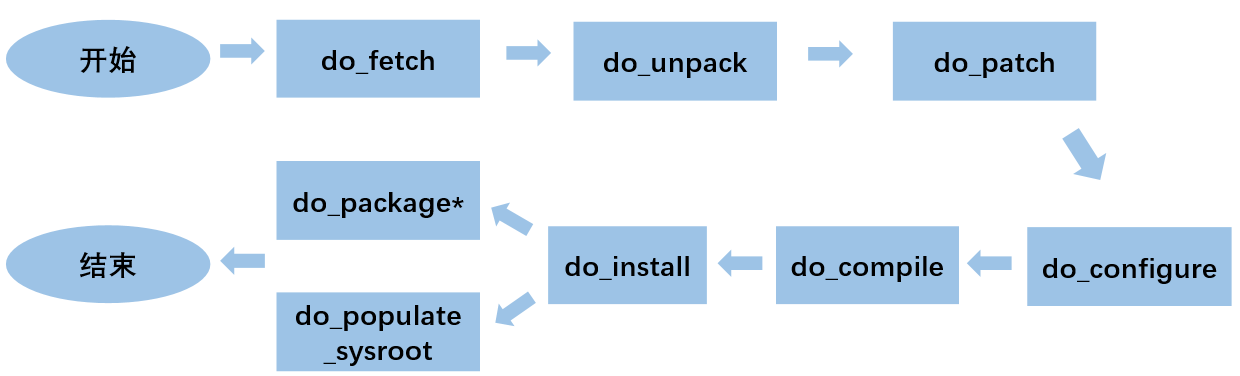
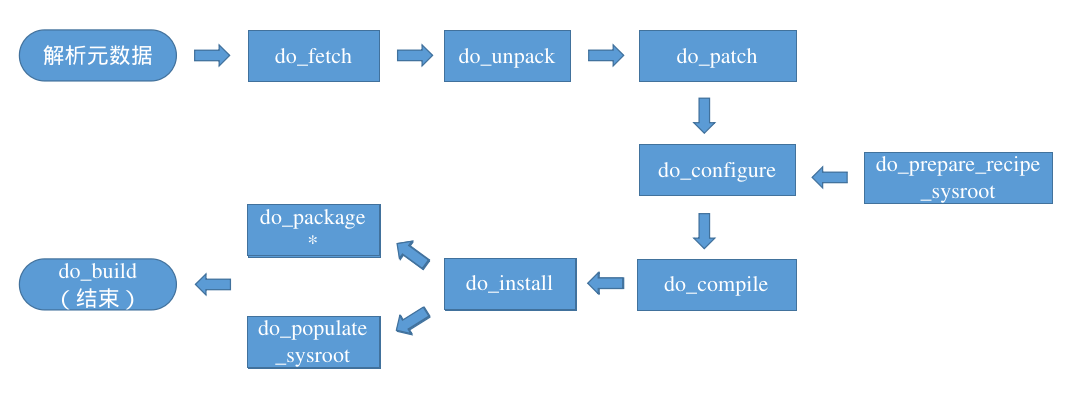
docs: add a brief doc to introduce Yocto (three)
* introduce Variables and Tasks of Yocto

diff --git a/docs/source/yocto/getting_started3.rst b/docs/source/yocto/getting_started3.rst
@@ -1,0 +1,299 @@
+.. _yocto_getting_started3:
+
+====================
+Yocto 入门文档三
+====================
+
+任务是BitBake的执行单元，变量可能会对任务产生影响。本篇章介绍常用的变量与任务。
+
+
+基本变量
+================
+
+此章节仅介绍一些最基本的变量，开发者如果有不理解的变量，可以在 :file:`poky/documentation/ref-manual/variables.rst` 文档查找介绍。此外，这些变量通常在bitbake.conf文件存在定义。本节提供了在OpenEmbedded（Yocto）构建系统中定义的变量的参考。
+
+- **MACHINE：** 指定使用的硬件配置文件，通常在local.conf文件定义；
+- **DISTRO：** 指定使用的发行版配置文件，通常在local.conf文件定义；
+- **PN：** 软件包名，一般是根据文件名自动生成；除了一些交叉编译的包，如gcc-cross会在bb中重新定义；
+- **PV：** 软件包版本；
+- **PR：** 食谱的修订，默认为r0；当包管理器在已构建的镜像上动态安装包时，PR很重要，当前openEuler未启用；
+- **BPN：** 软件包名，去除指定的前后缀(如-native、-cross等)；
+- **BP：** ${BPN}-${PV};
+- **SRC_URI：** 源码路径，可以为上游或者本地文件路径，上游源码需要使用校验值；
+- **LICENSE：** 配方的源许可证列表，必须设置；如果设置为"CLOSED"则关闭；
+- **LIC_FILES_CHKSUM：** 配方源代码中许可证文本的校验和，与LICENSE变量配合使用；
+- **PACKAGE_ARCH：** 生成包的体系结构；
+- **TARGET_VENDOR：** 指定目标供应商的名称，openEuler设置为"-openeuler"；
+- **TARGET_OS：** 指定目标的操作系统；
+- **MULTIMACH_TARGET_SYS：** 生成包的目标系统类型的唯一标识，默认为${PACKAGE_ARCH}${TARGET_VENDOR}-${TARGET_OS}；
+- **WORKDIR：** 构建配方的工作目录的路径名，指向${TMPDIR}/work/${MULTIMACH_TARGET_SYS}/${PN}/${EXTENDPE}${PV}-${PR}，EXTENDPE变量通常不被设置；
+- **S：** 构建过程中源代码位置，默认为${WORKDIR}/${BPN}-${PV}；
+- **B：** 构建过程中生成对象所在的目录，默认与S相同；一些类会将B设置为${WORKDIR}/build；
+- **D：** 相当于 ``make install`` 后的目标目录，指向${WORKDIR}/image；
+- **PACKAGES：** 表示配方创建的包列表；
+- **FILES_xxx：** 放置在包中的文件和目录列表；
+- **PKGD：** 要打包的文件的目录，指向${WORKDIR}/package；
+- **PKGDEST：**  将文件拆分为单独的包后，指向要打包的文件的父目录，该目录是PACKAGES中指定的每个包的目录，指向${WORKDIR}/packages-split；
+- **DEPENDS：** 列出配方的构建时依赖关系，配方在构建时需要其它配方的内容（例如头文件和共享库）；
+- **RDEPENDS：** 列出程序包的运行时依赖项，这些依赖项是必须安装的其他程序包，以便程序包正常运行；
+- **RECIPE_SYSROOT：** 指向${WORKDIR}/recipe-sysroot；
+- **RECIPE_SYSROOT_NATIVE：** 指向${WORKDIR}/recipe-sysroot-native；
+- **SYSROOT_DESTDIR：** 指向${WORKDIR}/sysroot-destdir；
+- **SYSROOT_DIRS：** 暂存到${SYSROOT_DESTDIR}的目录；
+- **STAGING_DIR_HOST：** 组件运行所在的系统上的sysroot路径，默认为${RECIPE_SYSROOT}。
+- **STAGING_DIR_NATIVE：** 构建主机上运行的组件使用的sysroot的路径，默认为${RECIPE_SYSROOT_NATIVE}；
+- **STAGING_DIR_TARGET：** 当构建在系统上执行的组件并为另一台机器生成代码（例如cross-canadian配方）时使用的sysroot路径；
+- **STAGING_KERNEL_DIR：** 包含构建树外模块所需的内核头文件的目录（内核源码目录）；
+- **STAGING_KERNEL_BUILDDIR：** 指向包含内核构建工件的目录。需要访问内核构建工件的配方构建软件可以在内核构建后在STAGING_KERNEL_BUILDDIR变量指定的目录中查找这些工件；
+- **PACKAGE_CLASSES：** 指定构建系统在打包数据时使用的包管理器（例如RPM、DEB或IPK），在local.conf文件设置；
+- **IMAGE_ROOTFS：** 指定根文件系统在构建过程中的位置（ ``do_rootfs`` 任务期间）。此变量不可配置，不要更改它；
+- **IMAGE_FEATURES：** 指定要包含在镜像中的主要功能列表，这些功能大多数都映射到其他安装包；
+- **EXTRA_IMAGE_FEATURES：** IMAGE_FEATURES的一部分；
+- **IMAGE_INSTALL：** 指定要安装到镜像中的程序包；
+- **PACKAGE_EXCLUDE：** ：指定不应安装到image中的包；
+- **PACKAGE_INSTALL：** 要安装到镜像中的程序包的列表，不要更改它，通常使用IMAGE_INSTALL变量间接进行修改；
+- **DEPLOY_DIR：** 指向构建系统用于放置镜像、包、SDK和其他输出文件的常规区域，这些文件已准备好在构建系统之外使用。默认情况下，此目录位于指向${TMPDIR}/deploy。
+- **DEPLOY_DIR_IMAGE：** 指向构建系统用来放置准备部署到目标计算机上的镜像和其他相关输出文件的区域。该目录是特定于机器的默认情况下，此目录指向${DEPLOY_DIR}/images/${MACHINE}/；
+- **DEPLOYDIR：** 当继承deploy类时，DEPLOYDIR指向已部署文件的临时工作区，默认指向${WORKDIR}/deploy-${PN}，此目录内容会被拷贝到${DEPLOY_DIR_IMAGE}；
+- **CC：** 用于运行C编译器的最小命令和参数；
+- **CFLAGS：** 指定要传递给C编译器的标志；
+- **CXXFLAGS：** 指定要传递给C++编译器的标志；
+- **CPPFLAGS：** 指定要传递给C预处理器（即同时传递给C编译器和C++编译器）的标志；
+- **LDFLAGS：** 指定要传递给链接器的标志；
+- **OVERRIDES：** 以冒号分隔的当前应用的覆盖列表。覆盖是一种BitBake机制，允许在解析结束时选择性地覆盖变量；
+- **COMPATIBLE_MACHINE：** 一种正则表达式，解析为一个或多个与配方兼容的目标机器。可以使用该变量来停止为配方不兼容的机器构建配方，停止这些构建对于内核特别有用。该变量还有助于提高解析速度，因为构建系统会跳过与当前机器不兼容的解析配方。
+
+.. note:: 
+
+    export可以将变量导出为环境变量，从而在构建时对正在构建的软件可见。举例： ``export CFLAGS`` 。
+
+
+基本任务
+================
+
+配方（.bb文件）使用任务来完成软件的配置、编译和打包等。本节提供了在OpenEmbedded（Yocto）构建系统中定义的任务的参考。
+
+Yocto支持的主要任务如下：
+
+.. image:: ../../image/yocto/yocto_tasks.png
+
+每个包实际的任务执行顺序可以在工作目录查看，具体是 :file:`${WORKDIR}/temp/log.task_order` 文件。
+
+
+``do_build``
+-------------------------
+
+配方的默认任务，依赖于构建一个配方的所有其他正常构建任务。因为Yocto默认在 :file:`meta/classes/base.bbclass` 中设置了 ``do_build[noexec] = "1"`` ，因此此任务并不会真的执行，只是一个虚拟任务，用于串连起各个模块的任务流。构建时，temp目录下不会存在其执行执行脚本及执行日志文件。
+
+
+``do_fetch/do_unpack``
+------------------------------
+
+配方必须做的第一件事是指定如何获取源文件，获取源码通过SRC_URI变量进行控制。
+
+``do_fetch`` 任务获取源文件， ``do_unpack`` 任务将源文件解压到工作目录（${WORKDIR}）下。默认情况下，一切都在工作目录中完成，该目录具有已定义的结构。在下图中，存在两个示例层次结构：一个基于包架构（即PACKAGE_ARCH）和一个基于机器（即MACHINE）。底层结构是相同的，区别在于OpenEmbedded构建系统使用什么作为构建目标（例如通用架构、构建主机、SDK或特定机器）。
+
+.. image:: ../../image/yocto/tasks_do_fetch.png
+
+``do_fetch`` 任务使用SRC_URI变量定位源码文件；基于SRC_URI变量值中每个条目的前缀来确定使用哪个提取器来获取源文件， ``file://`` 开头为本地文件， ``http://、git://`` 等为上游获取的源文件；
+
+OpenEmbedded构建系统使用FILESPATH变量来扫描SRC_URI中本地文件的目录位置，如果要增加新的路径不能直接修改FILESPATH变量，而是通过修改FILESEXTRAPATHS变量在FILESPATH之前加入路径；
+
+.. note:: 
+
+    如果使用Bitbake处理配方成功解压源文件，通常需要确保${S}目录与源的结构匹配。如果从上游源tarball获取源文件，并且tarball的内部结构与名为${BPN}-${PV}的顶级子目录的通用约定相匹配，那么不需要设置S；但是，如果SRC_URI指定不使用此约定的tarball中获取源代码，或者从像Git或Subversion这样的SCM中获取源代码，则配方需要重新定义S。
+
+详见 :file:`meta/classes/base.bbclass` 。
+
+
+``do_patch``
+----------------------
+
+``do_patch`` 任务在获取、解压源码后打入补丁到源码目录（${S}），根据SRC_URI变量中补丁文件写入的顺序打入补丁。
+
+- SRC_URI中提到的任何名称以 ``.patch`` 或 ``.diff`` 结尾的文件或这些后缀的压缩版本（例如 ``diff.gz`` 被视为补丁）;
+- 增加 ``;apply=yes`` 的任何文件也会当做补丁。
+
+使用方法举例： ::
+
+    SRC_URI += " \
+        file://file1.patch \
+        file://file;apply=yes \
+        file://file2.patch;apply=no \
+        "
+
+.. note:: 
+
+    打入补丁的位置可设置。
+
+详见 :file:`meta/classes/patch.bbclass` 。
+
+
+``do_prepare_recipe_sysroot``
+-----------------------------------
+
+配方通常需要使用构建主机上其他配方提供的文件。例如，配方构建时需要访问依赖库及关联的头文件，完成这种访问的方式是用文件填充sysroot。每个配方在其工作目录中有两个sysroot，一个用于目标文件 (recipe-sysroot)，另一个用于构建主机的本地文件(recipe-sysroot-native)。
+
+根据DEPENDS指定的依赖关系，将依赖包执行 ``do_populate_sysroot`` 任务放到sysroot的文件安装到当前配方特定的sysroot中（${RECIPE_SYSROOT}与${RECIPE_SYSROOT_NATIVE}）。
+
+详见 :file:`meta/classes/staging.bbclass` 。
+
+
+``do_configure``
+----------------------
+
+通过启用和禁用正在构建软件的任何构建时和配置选项来配置源码，此任务在当前工作目录设置为${B}的情况下运行。如果找到makefile（Makefile、makefile或GNUmakefile）并且CLEANBROKEN未设置为"1"，则此任务的默认行为是运行 ``oe_runmake clean`` ；如果未找到此类文件或CLEANBROKEN变量设置为"1"，则 ``do_configure`` 任务不执行任何操作。
+
+配置选项可以来自配方本身，也可以来自继承的类。此外，软件本身可能会根据为其构建的目标进行自我配置。如果使用的是autotools类，则可以使用EXTRA_OECONF或PACKAGECONFIG_CONFARGS变量添加其他配置选项；对于继承cmake类，可通过使用EXTRA_OECMAKE变量添加配置选项。
+
+详见 :file:`base.bbclass、autotools.bbclass、cmake.bbclass、meson.bbclass` 等，以下 ``do_compile、do_install`` 任务同。
+
+
+``do_compile``
+---------------------
+
+编译源代码，此任务在当前工作目录设置为${B}的情况下运行。如果找到构建文件（Makefile、makefile或GNUmakefile），则此任务的默认行为是运行 ``oe_runmake`` 函数。如果没有找到这样的文件， ``do_compile`` 任务什么也不做。
+
+.. image:: ../../image/yocto/tasks_do_compile.png
+
+
+``do_install``
+-----------------------
+
+复制要打包文件到保留区（${D}），此任务在当前工作目录设置为${B}的情况下运行。 ``do_install`` 任务，以及直接或间接依赖于已安装文件的其他任务（例如 ``do_package、do_package_write_*、do_rootfs``）都在fakeroot下运行。
+
+.. note:: 
+
+    安装文件时，请注意不要将已安装文件的所有者和组ID设置为计划外的值。某些复制文件的方法，尤其是使用递归 ``cp`` 命令时，可以保留原始文件的UID和GID，而这通常不是您想要的。"主机用户污染"QA检查检查的是可能拥有错误所有权的文件。受主机用户污染的QA检查检查可能具有错误所有权的文件。
+
+    安装文件的安全方法包括：
+
+    - ``install`` 程序。此实用程序是首选方法；
+
+    - 带有"--no-preserve=ownership"选项的 ``cp`` 命令；
+
+    - 带有"--no-same-owner"选项的 ``tar`` 命令。示例请参见源目录的 :file:`meta/classes/bin_package.bbclass` 文件。
+
+
+``do_populate_sysroot``
+-----------------------------
+
+此任务用于将 ``do_install`` 任务安装的文件子集（$D目录的文件）复制到（SYSROOT_DESTDIR目录），默认会对里面的文件进行 ``strip`` ，之后将SYSROOT_DESTDIR目录下的文件拷贝到"${COMPONENTS_DIR}/${PACKAGE_ARCH}/${PN}"，可以通过修改SYSROOT_DIRS适配填充SYSROOT_DESTDIR的目录列表。有关如何从其他配方访问这些文件的信息，见STAGING_DIR*变量。默认情况下不会复制其他配方在构建时通常不需要的目录（例如 /etc）。
+
+配方永远不应该直接填充SYSROOT_DESTDIR（即将文件写入SYSROOT_DESTDIR），应该在 ``do_install`` 任务期间安装到标准位置（${D}）。这种限制的原因是几乎所有填充sysroot的文件都在清单中编目，以确保在修改或删除配方时可以删除这些文件。因此，sysroot能够保持不受陈旧文件的影响。
+
+详见 :file:`meta/classes/staging.bbclass` 。
+
+
+``do_package``
+------------------------
+
+根据PACKAGES和FILES_xxx变量，分析在${D}目录中找到的文件，并根据可用的包和文件将它们拆分为子集。
+
+- 此任务会通过PACKAGES并使用每个包对应的FILES变量将文件分配给包。如果一个文件与PACKAGES中多个包的FILES变量匹配，它将被分配到最早（最左边）的包。
+- 除非通过ALLOW_EMPTY变量强制生成，否则不会生成变量列表中为空的包（即FILES_pkg中的任何模式都不匹配 ``do_install`` 任务安装的任何文件）；
+
+``do_package`` 任务与 ``do_packagedata`` 任务一起还保存一些重要的包元数据。分析涉及以下以及其他项目：拆分调试符号、查看包之间的共享库依赖项以及查看包关系。
+
+分析和包拆分过程的工作、阶段和中间结果使用以下几个方面：
+
+.. image:: ../../image/yocto/tasks_do_package.png
+
+详见 :file:`meta/classes/package.bbclass` 。
+
+
+``do_packagedata``
+------------------------
+
+将 ``do_package`` 任务生成的包元数据保存在PKGDATA_DIR目录中，以使其全局可用，以便构建系统可以生成最终包。
+
+
+``do_package_write_*``
+-------------------------------
+
+**do_package_write_rpm：**
+  创建 RPM 包（即*.rpm文件）并将它们放在包源（package feeds）区域${DEPLOY_DIR_RPM} 目录中。
+**do_package_write_deb：**
+  创建 Debian 包（即*.deb文件）并将它们放在包源区域的 ${DEPLOY_DIR_DEB} 目录中。
+**do_package_write_ipk：**
+  创建 IPK 包（即*.ipk文件）并将它们放在包源区域的 ${DEPLOY_DIR_IPK} 目录中。
+**do_package_write_tar：**
+  创建 tar.gz 包并将它们放在包源区域的 ${DEPLOY_DIR_TAR} 目录中。
+
+详见对应的 :file:`meta/classes/package_*.bbclass` 。
+
+
+``do_package_qa``
+-----------------------------
+
+对打包文件运行QA检查。在构建配方时，OpenEmbedded构建系统会对输出执行各种QA检查，以确保检测和报告常见问题。有时，当你创建一个新配方来构建新软件时，它会顺利构建。如果情况并非如此，或者当你在构建任何软件时遇到QA问题，则可能需要一些时间来解决这些问题。
+
+虽然忽略QA消息甚至禁用QA检查很诱人，但最好尝试解决任何报告的QA问题。QA消息列表和可能遇到的问题说明可参考 :file:`poky/documentation/ref-manual/qa-checks.rst`。
+
+具体检查见 :file:`meta/classes/insane.bbclass` 。
+
+
+``do_deploy``
+---------------------
+
+将要部署的输出文件写入${DEPLOY_DIR_IMAGE}，任务在当前工作目录设置为${B}的情况下运行。
+
+实现此任务的配方应继承deploy类，并应将输出写入${DEPLOYDIR}，不要将其与${DEPLOY_DIR}混淆。deploy类将 ``do_deploy`` 设置为共享状态（sstate）任务，该任务可以通过使用sstate来加速。sstate机制负责将输出从${DEPLOYDIR}复制到${DEPLOY_DIR_IMAGE}。
+
+.. note:: 
+
+    不要将输出直接写入${DEPLOY_DIR_IMAGE}，因为这会导致sstate机制出现故障。
+
+详见 :file:`meta/classes/deploy.bbclass` 。
+
+
+``do_rootfs``
+--------------------
+
+为镜像创建根文件系统（文件和目录结构）。
+
+详见 :file:`meta/classes/image.bbclass` 。
+
+
+``do_image``
+-----------------
+
+启动镜像生成过程，此任务通过 ``IMAGE_PREPROCESS_COMMAND`` 对image进行预处理，并通过动态生成的 ``do_image_xxx`` （镜像格式决定）任务构建图像。
+
+.. image:: ../../image/yocto/tasks_do_image.png
+
+详见 :file:`meta/classes/image.bbclass` 。
+
+
+``do_image_complete``
+---------------------
+
+完成图像生成过程，此任务通过POSTPROCESS_COMMAND对图像执行后处理。
+
+详见 :file:`meta/classes/image.bbclass` 。
+
+
+全局与局部配置关系
+====================
+
+上一篇章我们了解了全局配置与局部配置的关系，简要来说全局配置文件与全局类文件定义的是全局配置（变量、任务等），bb文件中定义的是局部配置。
+
+- 全局配置：通过bblayers.conf、layer.conf、bitbake.conf与base.bbclass以及引申出的其他配置文件和类文件定义的变量与任务都可视为全局配置，参与指令有 ``include``、 ``require`` 、 ``inherit`` 、 ``INHERIT`` ；
+- 局部配置：bb文件中单独定义的变量与任务，也可以使用 ``include`` 、 ``require`` 、 ``inherit`` ，但只对当前bb生效；
+
+.. note:: 
+
+    全局配置与局部配置的一个区分是，当使用 ``bitbake -p`` 完成首次解析后，修改全局配置项后再运行 ``bitbake -p`` 解析时间会很长，而修改局部配置则解析时间很短，原因是全局配置影响面比较广。
+
+可以在bb文件对全局配置进行适配（删减、附加、覆盖等），此修改只对当前bb有效，但有些全局变量是不能在bb中重新定义的，或者说即使重新定义了可能也起不到相应的作用，这其实主要与上一节的三个指令的使用有关。举例： ::
+
+    # bitbake.conf
+    include conf/local.conf
+    include ${MACHINE}.conf
+    # local.conf
+    MACHINE = "qemux86-64"
+    # test_directive.bb添加
+    MACHINE = "test_machine"
+
+
+在解析 :file:`bitbake.conf` 时会查找 :file:`conf/machine/qemux86-64.conf` 而非 :file:`conf/machine/test_machine.conf` ，因为 ``include`` 、 ``require`` 、 ``inherit`` 三个指令都是立刻解析的，必须在指令使用前决定变量具体值。

diff --git a/docs/source/yocto/getting_started.rst b/docs/source/yocto/getting_started.rst
@@ -204,6 +204,7 @@ Hello World 例子
 
   错误提示找不到bb文件，显然我们并没有对构建路径（hello/）与所加层的路径（meta-mylayer/）添加关联。
 
+
 10.  **创建conf/bblayers.conf：** bitbake使用 :file:`conf/bblayers.conf` 文件去定位工程构建时所用到的层。
 
   编写 :file:`conf/bblayers.conf` 文件，添加内容如下： ::
@@ -212,6 +213,7 @@ Hello World 例子
       BBLAYERS ?= " \
           /path/to/meta-mylayer \
       "
+
 
 11.  **再次运行bitbake构建目标：** 
 
@@ -244,8 +246,8 @@ Hello World 例子
           ├── bblayers.conf
           └── bitbake.conf
 
-      $ tree mylayer/
-      mylayer/
+      $ tree meta-mylayer/
+      meta-mylayer/
       ├── conf
       │   └── layer.conf
       └── recipes-hello
